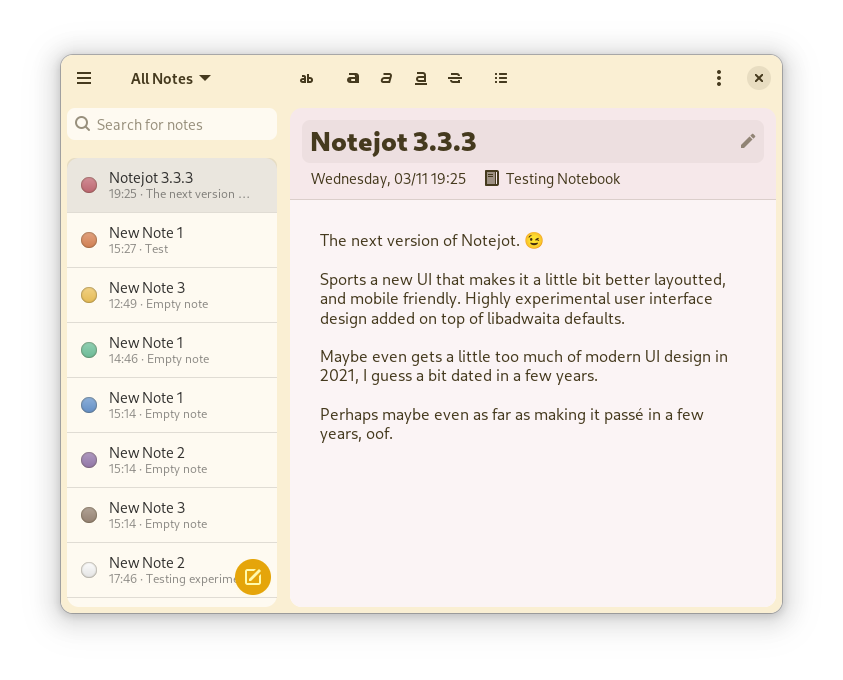
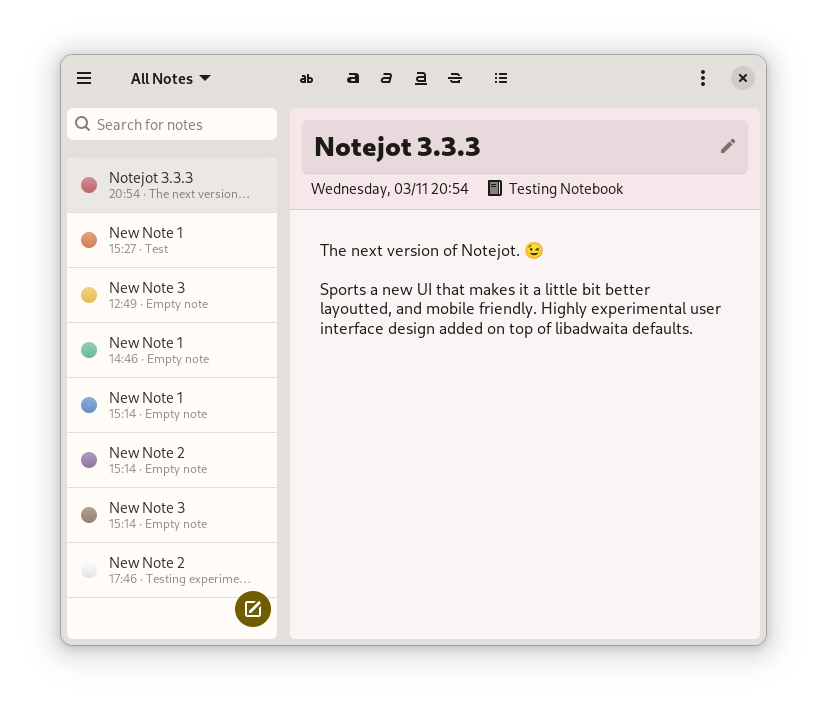
3.3.3 - Reduced the electricity of UI colors

diff --git a/data/style.css b/data/style.css
@@ -1,13 +1,14 @@
-@define-color accent_color @yellow_5;
-@define-color accent_bg_color @yellow_5;
-@define-color accent_fg_color shade(@yellow_1, 1.2);
-@define-color window_bg_color mix(@yellow_5, @view_bg_color, 0.82);
-@define-color headerbar_bg_color mix(@yellow_5, @view_bg_color, 0.82);
-@define-color popover_bg_color mix(@yellow_5, @view_bg_color, 0.92);
-@define-color popover_fg_color mix(@yellow_5, #222, 0.82);
-@define-color window_fg_color mix(@yellow_5, #222, 0.82);
-@define-color view_fg_color mix(@yellow_5, #222, 0.82);
-@define-color headerbar_fg_color mix(@yellow_5, #222, 0.82);
+@define-color accent_color #705d00;
+@define-color accent_bg_color #705d00;
+@define-color accent_fg_color #1d1b16;
+@define-color window_bg_color #e3dfdb;
+@define-color view_bg_color #fff;
+@define-color headerbar_bg_color #e3dfdb;
+@define-color popover_bg_color #fffbf7;
+@define-color popover_fg_color #1d1b16;
+@define-color window_fg_color #1d1b16;
+@define-color view_fg_color #1d1b16;
+@define-color headerbar_fg_color #1d1b16;
 
 .circular radio {
   background: none;
@@ -32,7 +33,7 @@
 }
 .accent-button {
   background: @accent_color;
-  color: @accent_fg_color;
+  color: white;
 }
 
 .content-view {
@@ -45,7 +46,7 @@
 	margin-bottom: 0px;
 	border-radius: 6px;
 	border: none;
-	background: mix(@yellow_5, @view_bg_color, 0.944);
+	background: @popover_bg_color;
 }
 
 .content-header {
@@ -54,10 +55,11 @@
 }
 
 .content-header entry {
-	background: alpha(@view_fg_color, 0.08);
-	padding: 5px 8px;
+	background: alpha(@view_fg_color, 0.066);
+	padding: 10px 12px;
 	border-radius: 6px;
 	border: none;
+	box-shadow: 0 1px 1px 0 @borders;
 }
 
 .content-footer {
@@ -125,7 +127,7 @@
 .notejot-searchbar entry {
   border-radius: 6px;
   border: none;
-  background: mix(@yellow_5, @view_bg_color, 0.944);
+  background: @popover_bg_color;
 }
 
 .big-font {

diff --git a/data/style-dark.css b/data/style-dark.css
@@ -1,18 +1,15 @@
-@define-color accent_color @yellow_1;
-@define-color accent_bg_color @yellow_1;
-@define-color accent_fg_color shade(@yellow_5, 0.88);
-@define-color window_bg_color mix(@view_bg_color, @yellow_1, 0.02);
-@define-color headerbar_bg_color mix(@view_bg_color, @yellow_1, 0.02);
-@define-color popover_bg_color mix(@view_bg_color, @yellow_1, 0.01);
-@define-color popover_fg_color mix(@yellow_1, #ccc, 0.82);
-@define-color window_fg_color mix(@yellow_1, #ccc, 0.82);
-@define-color view_fg_color mix(@yellow_1, #ccc, 0.82);
-@define-color headerbar_fg_color mix(@yellow_1, #ccc, 0.82);
+@define-color accent_color #e6c419;
+@define-color accent_bg_color #e6c419;
+@define-color accent_fg_color #e8e2d9;
+@define-color window_bg_color #383630;
+@define-color view_bg_color #121212;
+@define-color headerbar_bg_color #383630;
+@define-color popover_bg_color #1d1b16;
+@define-color popover_fg_color #e8e2d9;
+@define-color window_fg_color #e8e2d9;
+@define-color view_fg_color #e8e2d9;
+@define-color headerbar_fg_color #e8e2d9;
 
-.content-sidebar {
-	background: mix(@view_bg_color, @yellow_2, 0.06);
-}
-
-.notejot-searchbar entry {
-  background: mix(@view_bg_color, @yellow_2, 0.06);
+.accent-button {
+  color: black;
 }
